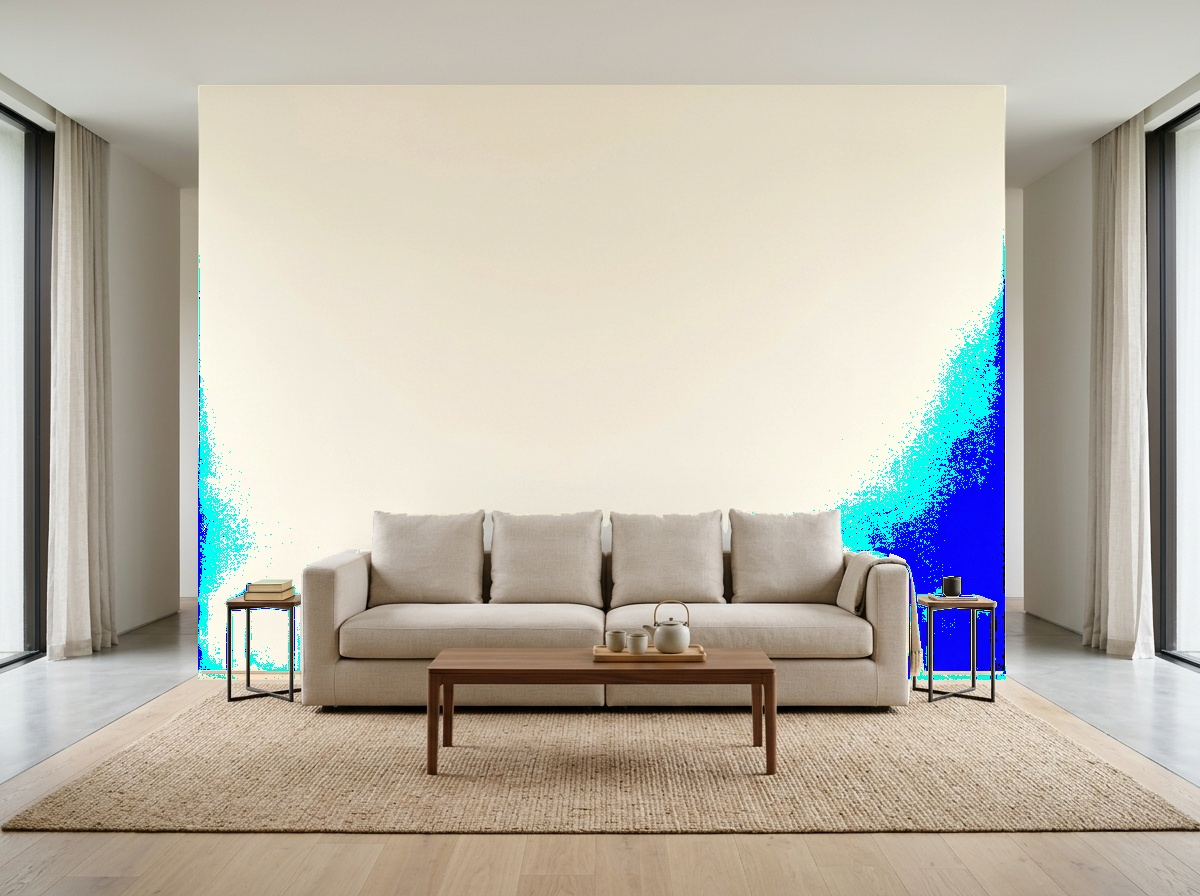
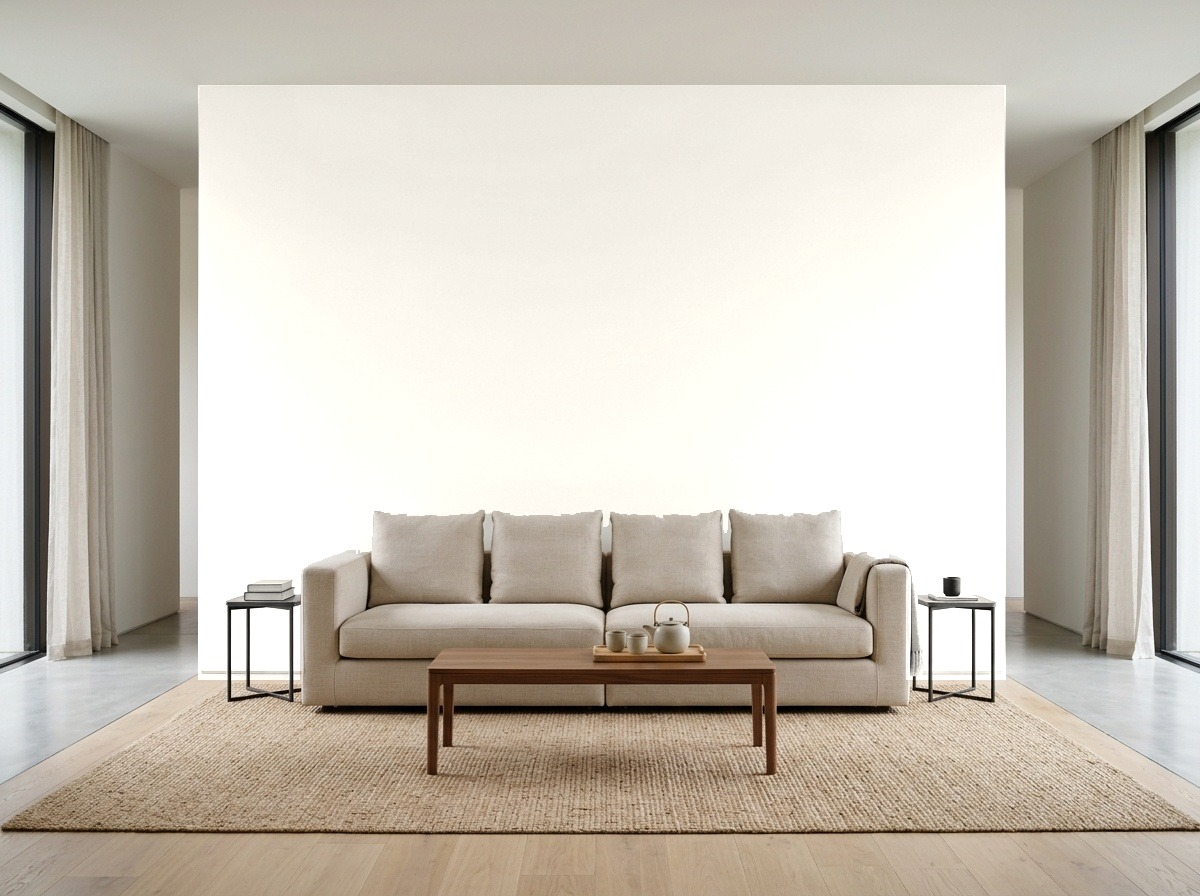
canvas studio update

diff --git a/components/products/ProductDetailContent.tsx b/components/products/ProductDetailContent.tsx
@@ -163,15 +163,13 @@ export default function ProductDetailContent({ productId }: ProductDetailContent
   const cmHeight = Math.round(physHeight * 2.54);
 
   // Living room wall perspective scale calculation
-  // Maps physical inches to proportional wall width footprints:
-  // - 16×24″ sits at the prime ~19.5% wall width above the 84″ sofa
-  // - Smaller sizes (6×8″ Mini Tile, 8×12″ Classic Board, 12×16″ Medium Print) scale down cleanly and visibly
-  // - Grand sizes (20×30″, 24×36″) expand impressively across the wall
+  // Bounded so that even grand canvases (20×30″, 24×36″) stay strictly below
+  // the ceiling line (y=9.5%) and above the sofa cushions (y=56.8%).
   const artWidthPct = isSquare
-    ? Math.round((10.5 + ((physWidth - 6) / 18) * 24) * 10) / 10
+    ? Math.round((8.5 + ((physWidth - 6) / 18) * 18.5) * 10) / 10
     : isLandscape
-    ? Math.round((13.5 + ((physWidth - 8) / 28) * 28.5) * 10) / 10
-    : Math.round((9.5 + ((physWidth - 6) / 18) * 18) * 10) / 10;
+    ? Math.round((12.0 + ((physWidth - 8) / 28) * 24.0) * 10) / 10
+    : Math.round((7.5 + ((physWidth - 6) / 18) * 10.7) * 10) / 10;
 
   // Dynamic Pricing Calculation
   const basePrice = selectedMaterial === 'pvc' ? selectedSize.pricePvc : selectedSize.priceCanvas;
@@ -346,8 +344,8 @@ export default function ProductDetailContent({ productId }: ProductDetailContent
                 <div
                   className="absolute z-20 flex items-center justify-center pointer-events-none transition-all duration-500 ease-out"
                   style={{
-                    left: '52.4%',
-                    top: '30.5%',
+                    left: '50.2%',
+                    top: '32.5%',
                     width: `${artWidthPct}%`,
                     aspectRatio: `${physWidth} / ${physHeight}`,
                     transform: 'translate(-50%, -50%)',
